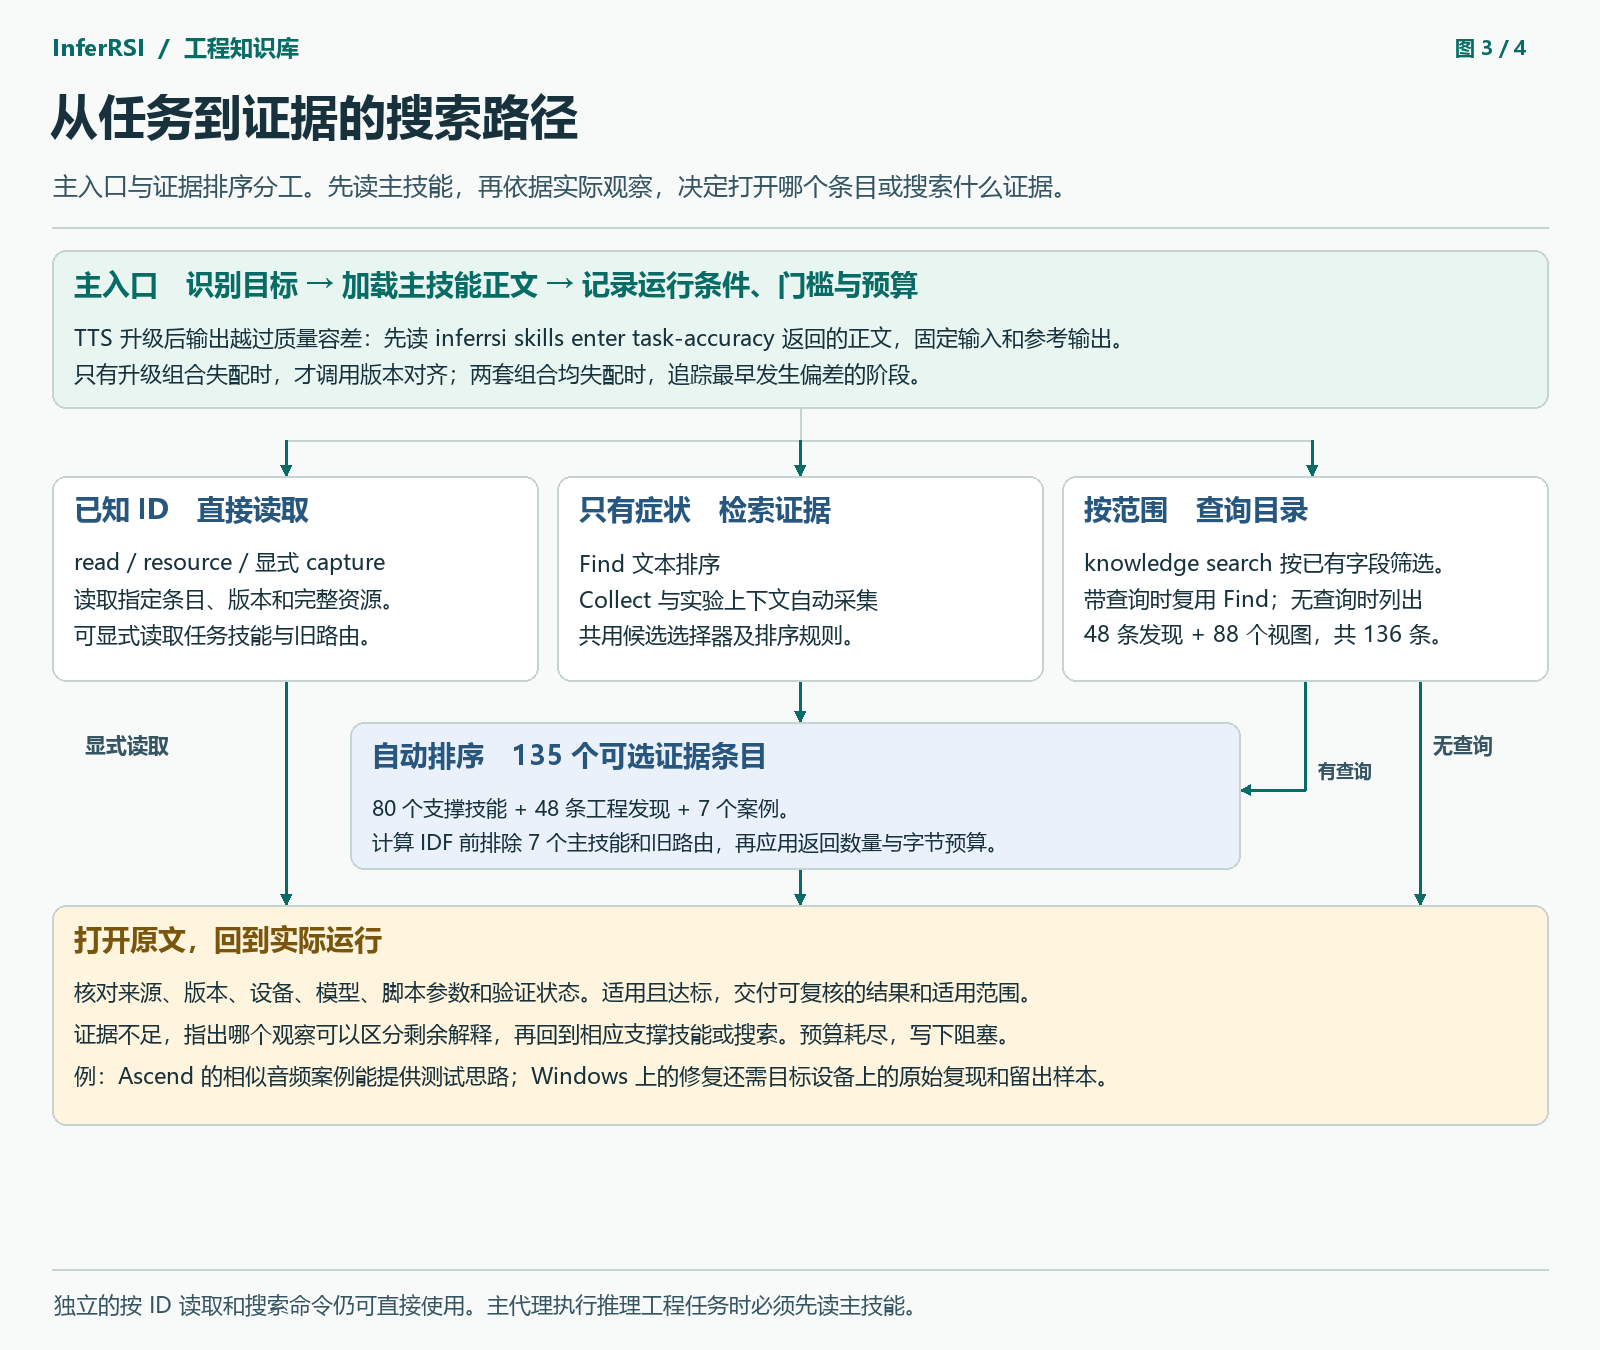
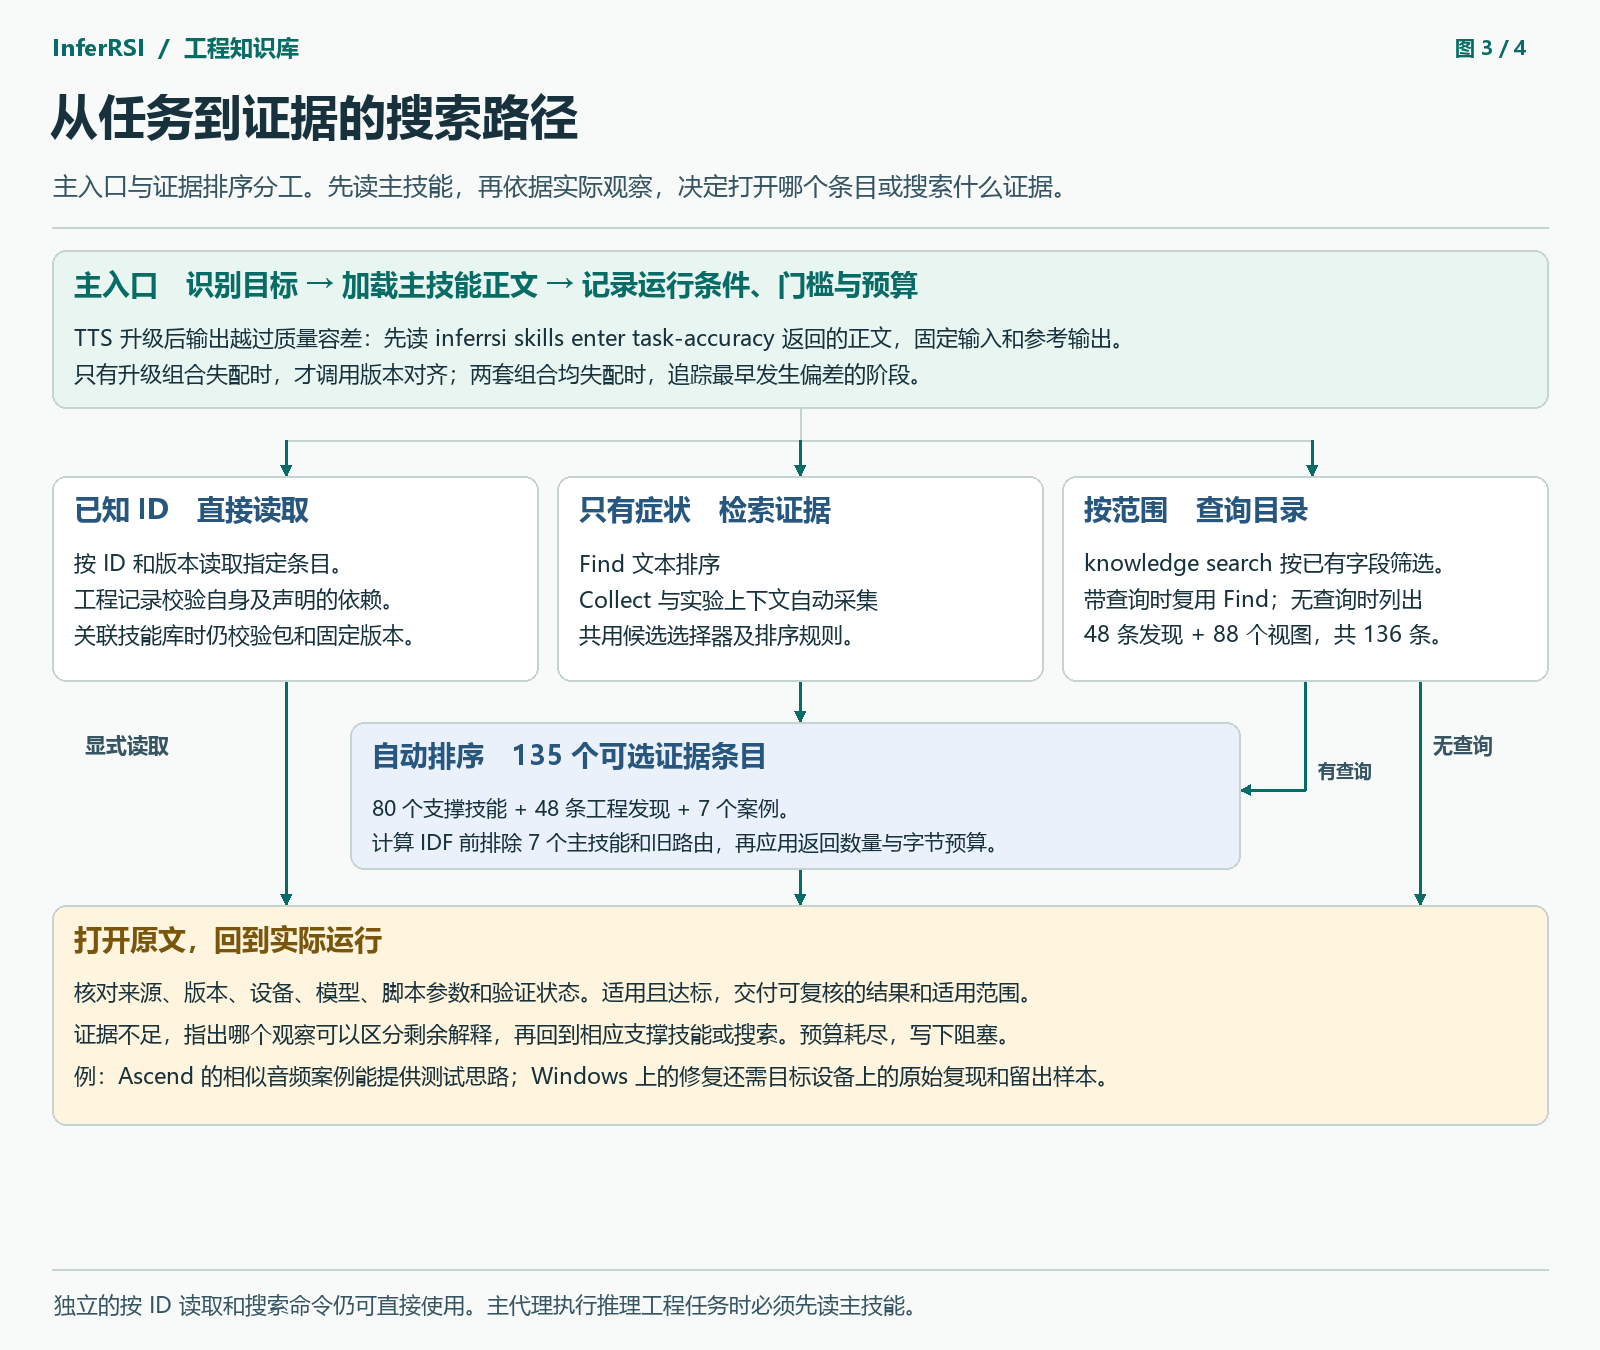
Isolate exact knowledge reads and ignore OS metadata beside records
Agent-assisted-by: Codex / gpt-6.2-astra [effort=xhigh] (author)

Changed region(s): [[0.0312, 0.4044, 0.25, 0.4978]]

diff --git a/src/inferrsi/knowledge/catalog.py b/src/inferrsi/knowledge/catalog.py
@@ -120,7 +120,7 @@ def recommendations(metadata: dict) -> list[str]:
     return list(DEFAULT_RECOMMENDATIONS)
 
 
-def skill_views(root, *, file_fingerprints=True):
+def skill_views(root, *, file_fingerprints=True, record_id: str | None = None):
     """The only compiled inputs are YAML headers and immutable source hashes."""
     built = root.joinpath(COMPILED)
     snapshot = json.loads(built.joinpath(_source_snapshot.MANIFEST).read_bytes())
@@ -133,16 +133,18 @@ def skill_views(root, *, file_fingerprints=True):
         raise ValueError("Invalid packaged skill registry")
     entries = registry["skills"]
     inputs = json.loads(built.joinpath(INPUTS).read_bytes())
-    if not isinstance(inputs, dict) or entries.keys() != inputs.keys():
+    if not isinstance(inputs, dict) or (record_id is None and entries.keys() != inputs.keys()):
         raise ValueError("Compiled skill IDs disagree with registry")
     for name, registration in entries.items():
+        if record_id is not None and packaged_skill_id(name, registration["backend"]) != record_id:
+            continue
         relative = registration["path"]
         path = PurePosixPath(relative)
         if path.is_absolute() or ".." in path.parts or path.name != name or "\\" in relative:
             raise ValueError(f"Invalid registered skill path: {relative}")
         directory = f"{_source_snapshot.LIBRARY}/{relative}"
         owner = root.joinpath(*path.parts)
-        data = inputs[name]
+        data = inputs.get(name)
         if (not isinstance(data, dict) or set(data) != {"header", "files"}
                 or not isinstance(data["header"], dict) or not isinstance(data["files"], dict)):
             raise ValueError(f"Invalid compiled inputs for {name}")
@@ -222,6 +224,25 @@ def skill_views(root, *, file_fingerprints=True):
         }
 
 
+def _authored_record(item) -> dict:
+    if not item.is_file() or not item.name.endswith(".json"):
+        raise ValueError(f"Unexpected authored knowledge resource: {item.name}")
+    parts = item.name[:-5].split(".", 3)
+    if len(parts) != 4:
+        raise ValueError(f"Invalid knowledge filename: {item.name}")
+    repo, backend, component, entry = parts
+    record = json.loads(item.read_bytes())
+    if not isinstance(record, dict) or record.get("index_type") == "packaged-skill":
+        raise ValueError(f"Invalid authored knowledge record: {item.name}")
+    tier = record.get("tier", "contribution")
+    if repo not in KNOWLEDGE_SCOPES.get(tier, ()):
+        raise ValueError(f"Knowledge tier disagrees with repository scope: {item.name}")
+    _validate_record(record, repo, (backend, component, entry + ".json"), tier)
+    if item.name != record["id"] + ".json":
+        raise ValueError(f"Knowledge ID disagrees with filename: {item.name}")
+    return record
+
+
 def knowledge_records(
     *, file_fingerprints: bool = True, include_skill_views: bool = True,
 ) -> list[dict[str, Any]]:
@@ -229,24 +250,12 @@ def knowledge_records(
     records = []
     authored = root.joinpath("records")
     for item in sorted(authored.iterdir(), key=lambda p: p.name):
-        if item.name == "README.md":
+        if item.is_file() and (
+            item.name in {"README.md", ".DS_Store"}
+            or item.name.casefold() in {"desktop.ini", "thumbs.db"}
+        ):
             continue
-        if not item.is_file() or not item.name.endswith(".json"):
-            raise ValueError(f"Unexpected authored knowledge resource: {item.name}")
-        parts = item.name[:-5].split(".", 3)
-        if len(parts) != 4:
-            raise ValueError(f"Invalid knowledge filename: {item.name}")
-        repo, backend, component, entry = parts
-        record = json.loads(item.read_bytes())
-        if not isinstance(record, dict) or record.get("index_type") == "packaged-skill":
-            raise ValueError(f"Invalid authored knowledge record: {item.name}")
-        tier = record.get("tier", "contribution")
-        if repo not in KNOWLEDGE_SCOPES.get(tier, ()):
-            raise ValueError(f"Knowledge tier disagrees with repository scope: {item.name}")
-        _validate_record(record, repo, (backend, component, entry + ".json"), tier)
-        if item.name != record["id"] + ".json":
-            raise ValueError(f"Knowledge ID disagrees with filename: {item.name}")
-        records.append(record)
+        records.append(_authored_record(item))
     if include_skill_views:
         for view in skill_views(root, file_fingerprints=file_fingerprints):
             parts = (view["backend"], "skills", view["title"] + ".json")
@@ -393,8 +402,24 @@ def search_knowledge(
     return {"items": items, "retrieval": retrieval}
 
 
+def lookup_record(record_id: str) -> dict | None:
+    """Validate a single package owner without parsing unrelated records or skill sidecars."""
+    if not re.fullmatch(r"[a-z0-9][a-z0-9._-]*", record_id):
+        return None
+    root = files("inferrsi").joinpath("knowledge", "data", "skill_library")
+    item = root.joinpath("records", record_id + ".json")
+    record = _authored_record(item) if item.is_file() else None
+    if re.fullmatch(r"inferrsi\.[a-z0-9]+\.skills\.[a-z0-9_]+", record_id):
+        for view in skill_views(root, record_id=record_id):
+            if record is not None:
+                raise ValueError(f"Duplicate knowledge ID: {record_id}")
+            _validate_record(view, "inferrsi", (view["backend"], "skills", view["title"] + ".json"))
+            record = view
+    return record
+
+
 def get_knowledge(record_id: str) -> dict[str, Any]:
-    for record in knowledge_records():
-        if record["id"] == record_id:
-            return record
-    raise ValueError(f"Unknown knowledge ID: {record_id}")
+    record = lookup_record(record_id)
+    if record is None:
+        raise ValueError(f"Unknown knowledge ID: {record_id}")
+    return record

diff --git a/src/inferrsi/knowledge/knowledge_operations.py b/src/inferrsi/knowledge/knowledge_operations.py
@@ -18,7 +18,7 @@ from ._skill_selection import (
     record_context,
     validate_relevance_method,
 )
-from .catalog import KNOWLEDGE_SCOPES, SCENARIO_ALIASES, knowledge_records
+from .catalog import KNOWLEDGE_SCOPES, SCENARIO_ALIASES, knowledge_records, lookup_record
 
 if TYPE_CHECKING:
     from .knowledge_find import Document
@@ -387,6 +387,7 @@ class KnowledgeReader:
             raise ValueError("Store must reserve identities from the same checkout")
         self.store = store
         self._records: dict[str, dict] | None = None
+        self._opened_records: dict[str, dict | None] = {}
         self._library: tuple[dict[str, bytes], str] | None = None
 
     def records(self) -> dict[str, dict]:
@@ -394,6 +395,14 @@ class KnowledgeReader:
         if self._records is None:
             self._records = {record["id"]: record for record in knowledge_records()}
         return self._records
+
+    def record(self, identity: str) -> dict | None:
+        """Read one validated owner, honoring an already-loaded or supplied catalog."""
+        if self._records is not None:
+            return self._records.get(identity)
+        if identity not in self._opened_records:
+            self._opened_records[identity] = lookup_record(identity)
+        return self._opened_records[identity]
 
     def _skill_library(self) -> tuple[dict[str, bytes], str]:
         if self._library is None:
@@ -437,7 +446,18 @@ class KnowledgeReader:
         authority, qualified, identity = reference.rpartition(":")
         if not re.fullmatch(IDENTITY, identity) or (qualified and authority not in AUTHORITIES):
             raise IdentityError("invalid_identity", f"Invalid identity: {reference}")
-        found = (self.owners() if owners is None else owners).get(identity, [])
+        if owners is not None:
+            found = owners.get(identity, [])
+        else:
+            found = []
+            if (not qualified or authority == "package") and self.record(identity) is not None:
+                found.append("package")
+            if ((not qualified or authority == "checkout")
+                    and identity in self._checkout_identities()):
+                found.append("checkout")
+            if (not qualified or authority == "store") and self.store is not None:
+                if identity in self.store.identities():
+                    found.append("store")
         if qualified:
             if authority not in found:
                 raise IdentityError("unknown_identity", f"Unknown identity: {reference}")
@@ -532,7 +552,7 @@ class KnowledgeReader:
         return self._skill(identity)
 
     def _knowledge(self, identity: str) -> Bundle:
-        record = self.records().get(identity)
+        record = self.record(identity)
         if record is None:
             raise IdentityError("unknown_identity", f"Unknown knowledge ID: {identity}")
         content = {"record.json": _json(record)}

diff --git a/tests/test_source_snapshot.py b/tests/test_source_snapshot.py
@@ -29,6 +29,54 @@ def test_public_projection_implementation_is_a_protected_knowledge_path():
         assert any(fnmatchcase(path, pattern) for pattern in policy["protected_paths"]), path
 
 
+def test_single_owner_reads_survive_an_unrelated_pending_metadata_edit(tmp_path, monkeypatch):
+    from inferrsi.knowledge import skill_catalog
+    from inferrsi.knowledge.catalog import get_knowledge, knowledge_records
+    from inferrsi.knowledge.knowledge_find import Corpus, find, load_documents
+    from inferrsi.knowledge.knowledge_operations import KnowledgeReader
+
+    library = GENERATED.parent
+    owner = "ascend-model-adaptation"
+    metadata = skill_catalog.skill_directory(library, owner) / "metadata.json"
+    edited = tmp_path / "metadata.json"
+    sidecar = json.loads(metadata.read_bytes())
+    sidecar["tags"].append("pending-edit")
+    edited.write_text(json.dumps(sidecar), encoding="utf-8")
+    original_open = Path.open
+
+    def open_with_edit(path, *args, **kwargs):
+        return original_open(edited if path == metadata else path, *args, **kwargs)
+
+    monkeypatch.setattr(Path, "open", open_with_edit)
+    identity = "flashinfer.cuda.llm.paged_decode_dispatch"
+    expected = json.loads((library / "records" / f"{identity}.json").read_bytes())
+    for ref in (identity, f"package:{identity}"):
+        bundle = KnowledgeReader().read(ref)
+        assert json.loads(bundle.content["record.json"]) == expected
+        assert bundle.metadata["attribution"] == expected["sources"]
+    assert get_knowledge(identity) == expected
+    with pytest.raises(ValueError, match="Stale skill metadata for ascend-model-adaptation"):
+        KnowledgeReader().read("package:inferrsi.ascend.skills.ascend_model_adaptation")
+    with pytest.raises(ValueError, match="Stale skill metadata for ascend-model-adaptation"):
+        knowledge_records()
+
+    def no_yaml():
+        raise skill_catalog.MissingSkillsExtra("no PyYAML")
+
+    monkeypatch.setattr(skill_catalog, "_yaml", no_yaml)
+    corpus = Corpus(load_documents())
+    result = find("FlashInfer paged decode dispatch", corpus, limit=5)
+    record = next(row for row in result["items"] if row["id"] == identity)
+    assert record["read_args"][:2] == ["read", f"package:{identity}"]
+    assert "unreadable" not in record
+    result = find("weight-loading-optimization", corpus, limit=5)
+    skill = next(row for row in result["items"] if row["id"] == "weight-loading-optimization")
+    assert skill["read_args"][:2] == [
+        "read", "package:inferrsi.common.skills.weight_loading_optimization",
+    ]
+    assert "--resource" in skill["read_args"] and "--revision" in skill["read_args"]
+
+
 def test_compiled_inputs_expand_to_public_records():
     root = GENERATED.parent
     inputs = json.loads((GENERATED / INPUTS).read_bytes())

diff --git a/tests/test_cli_catalog.py b/tests/test_cli_catalog.py
@@ -4,6 +4,7 @@ import contextlib
 import io
 import json
 import shlex
+import shutil
 import subprocess
 import sys
 import tempfile
@@ -138,6 +139,39 @@ class CatalogTests(unittest.TestCase):
         self.assertNotIn("/pull/", text)
         self.assertNotIn("open_pr", text)
         self.assertNotIn("Backend: `cuda`", text)
+
+
+def test_default_find_skips_incidental_system_files(tmp_path, monkeypatch, capsys):
+    from tools.plugin_bundle import _io_path
+
+    library = Path("knowledge/data/skill_library")
+    package = _io_path(tmp_path)
+    installed = package / library
+    shutil.copytree(PROJECT / "src/inferrsi" / library, installed)
+    monkeypatch.setattr(knowledge_catalog, "files", lambda _: package)
+    identity = "flashinfer.cuda.llm.paged_decode_dispatch"
+    query = ["find", identity, "--no-external", "--limit", "1", "--json"]
+    assert main(query) == 0
+    previous = json.loads(capsys.readouterr().out)["items"]
+    assert previous[0]["id"] == identity and previous[0]["open_argv"]
+    for name in (".DS_Store", "Thumbs.db", "Desktop.ini"):
+        (installed / "records" / name).write_bytes(b"incidental system data")
+    assert main(query) == 0
+    assert json.loads(capsys.readouterr().out)["items"] == previous
+
+
+@pytest.mark.parametrize(("filename", "error"), [
+    ("unexpected.txt", "Unexpected authored knowledge resource"),
+    (".hidden.json", "Invalid knowledge filename"),
+    ("flashinfer.cuda.llm.invalid.json", "Expecting value"),
+])
+def test_records_still_reject_unrecognized_or_invalid_data(tmp_path, monkeypatch, filename, error):
+    records = tmp_path / "knowledge/data/skill_library/records"
+    records.mkdir(parents=True)
+    (records / filename).write_text("unrecognized data", encoding="utf-8")
+    monkeypatch.setattr(knowledge_catalog, "files", lambda _: tmp_path)
+    with pytest.raises(ValueError, match=error):
+        knowledge_records(include_skill_views=False)
 
 
 def test_knowledge_has_one_canonical_record_and_complete_navigation():

diff --git a/src/inferrsi/knowledge/knowledge_find.py b/src/inferrsi/knowledge/knowledge_find.py
@@ -27,7 +27,7 @@ import re
 import shlex
 import sys
 from collections import Counter
-from collections.abc import Iterable, Mapping
+from collections.abc import Callable, Iterable, Mapping
 from dataclasses import dataclass
 from functools import lru_cache
 from importlib.resources import files
@@ -617,14 +617,17 @@ def installed_skill_root() -> Path:
     return Path(files("inferrsi").joinpath("knowledge", "data", "skill_library")).resolve()
 
 
-def installed_skill_projection(document: Document, records: Mapping[str, dict]) -> dict | None:
+def installed_skill_projection(
+    document: Document, records: Mapping[str, dict] | Callable[[str], dict | None],
+) -> dict | None:
     """Find the generated record for this registered installed Skill identity."""
     if (
         document.kind != "skill" or document.source_location != "installed"
         or document.backend is None or document.root != installed_skill_root()
     ):
         return None
-    record = records.get(packaged_skill_id(document.identity, document.backend))
+    lookup = records.get if isinstance(records, Mapping) else records
+    record = lookup(packaged_skill_id(document.identity, document.backend))
     if record is None or record.get("index_type") != "packaged-skill":
         return None
     return record
@@ -741,7 +744,7 @@ def _open_args(document: Document, readers: dict) -> tuple[str, ...]:
     except MissingSkillsExtra:
         if document.source_location != "installed":
             raise
-        record = installed_skill_projection(document, reader.records())
+        record = installed_skill_projection(document, reader.record)
         if record is None:
             raise
         package_reader = readers.get(None)

diff --git a/docs/knowledge-layout.md b/docs/knowledge-layout.md
@@ -54,7 +54,9 @@ flowchart TB
     C -->|Query| F
     C -->|No query| B["List 136 catalog records by ID · 48 findings + 88 skill views"]
     F --> A["Exclude 7 primary skills and legacy router before IDF and limits<br/>default 135 evidence owners · 80 skills + 48 findings + 7 cases"]
-    I & A & B --> V["Check revision, device, model, flags and measurement against this run"]
+    I -->|Authored finding| E["Validate selected record and its dependencies<br/>retain linked-library bundle and pin checks when skill documents are declared"]
+    I -->|Other exact owner| V["Check revision, device, model, flags and measurement against this run"]
+    E & A & B --> V
     V --> X["Meets gates → cite reproducible evidence and scope"]
     V --> G["Gap → name missing evidence; test the next distinction or record exhausted budget"]
     G -.->|budget remains| D
@@ -141,7 +143,9 @@ inferrsi knowledge show flashinfer.cuda.llm.paged_decode_dispatch
 
 For an inference task, run `inferrsi skills enter <task-id>` and read its returned `instructions` before choosing the first supporting query. Its decision points specify the observation that warrants opening a supporting skill, the evidence to retrieve and the next action. A direct evidence lookup outside the main agent workflow can still use an exact ID or free text. The compatibility router retains its historical resource paths.
 
-Find ranks each eligible evidence owner once. A scoped catalog query reuses Find; a catalog listing without a query includes the eight task entries. Ranked Collect and managed campaign capture use the same evidence selector, and explicit IDs can still capture a task owner. Check revision, applicability and verification before using a result. Propose a reusable finding for human review with its source, scoped conclusion and retry condition.
+For an exact read of an authored finding, the reader validates the selected record and the inputs of its bundle. A stale sidecar for an unrelated skill cannot block a standalone finding such as FlashInfer paged decode. A record that declares linked skill documents retains its library dependencies and bundle revision checks. Changes to those dependencies can invalidate a pinned read.
+
+Find skips incidental system files such as `.DS_Store` beside the records and still validates record JSON. It ranks each eligible evidence owner once. A scoped catalog query reuses Find; a catalog listing without a query includes the eight task entries. Ranked Collect and managed campaign capture use the same evidence selector, and explicit IDs can still capture a task owner. Check revision, applicability and verification before using a result. Propose a reusable finding for human review with its source, scoped conclusion and retry condition.
 
 ## Design choices and benefits
 
